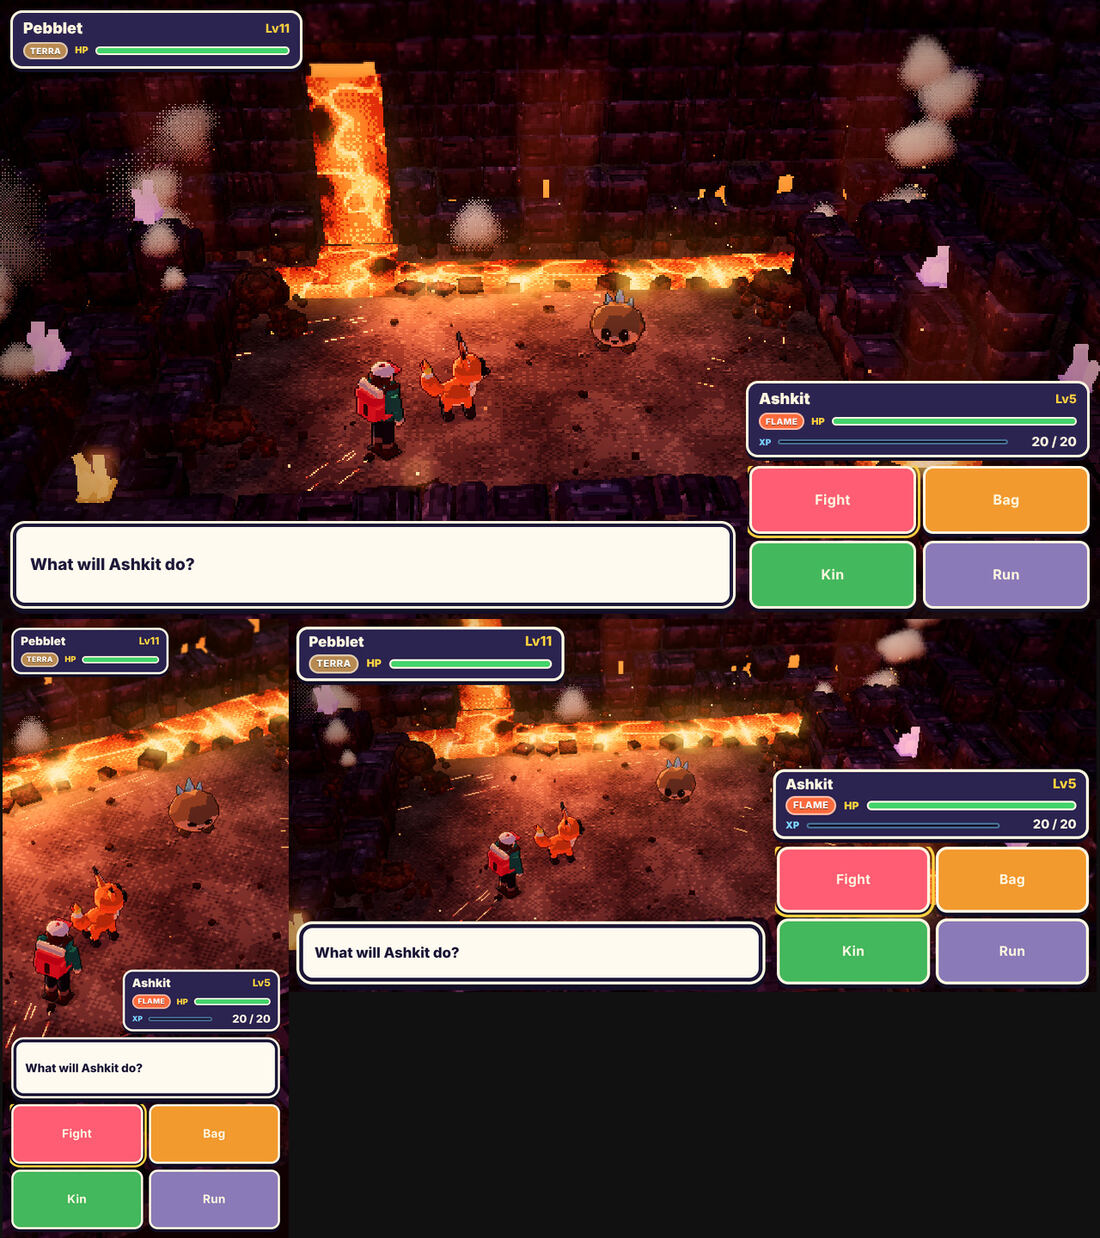
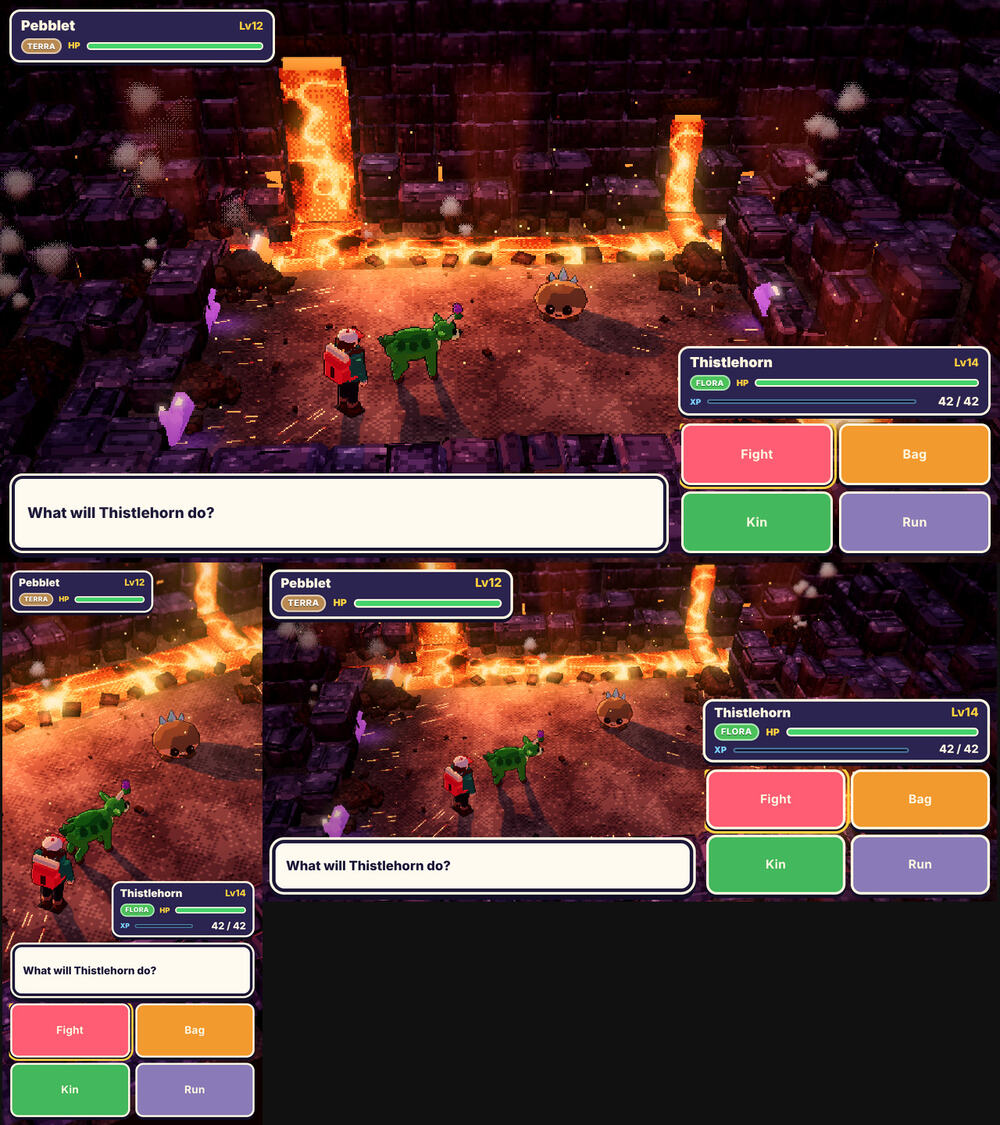
hd2d volcanic: lavender-lit boulder tops with baked lava rims, warmer floor bounce, weaker orange underlight; wispy translucent steam; violet crystal clusters growing from the wall foot with glow pools; second lavafall; lava veins along the floor edges; new sheet
Claude-Session: https://claude.ai/code/session_016JXtcKyTyuZAwfXm5uVZkS

diff --git a/game/src/render/hd2d/arenas/volcanic.ts b/game/src/render/hd2d/arenas/volcanic.ts
@@ -11,7 +11,7 @@ import { paintBoulder } from '../textures';
 import type { SpriteLight } from '../sprite';
 import type { Grade } from '../pipeline';
 import type { ArenaDef } from './index';
-import { RAMPS2, V, battleMarking, cachedCanvas, cachedTexture, decal, disposeGroup, floorGrid, glowTexture, grey, hdr, makeGrade, shadeVertices, paintAlpha, paintAsh, paintRockOn, particles } from './localKit';
+import { RAMPS2, V, battleMarking, cachedCanvas, cachedTexture, decal, disposeGroup, floorGrid, glowTexture, grey, hdr, makeGrade, orientedBox, shadeVertices, paintAlpha, paintAsh, paintRockOn, particles } from './localKit';
 
 export interface TerrainArenaOptions { seed?: number; quality?: 'high' | 'low'; trainer?: boolean }
 
@@ -176,6 +176,7 @@ export function buildVolcanicArena(opts: TerrainArenaOptions = {}): ArenaRig {
   const floorHalfX = 5.4, floorFront = 3.6, floorBack = -3.0;
   const river = { z: -4.25, half: 0.75 };      // lava river behind the floor
   const fall = { x0: -4.6, x1: -2.6, z: -6.25 }; // lavafall notch in the back wall
+  const fall2 = { x0: 4.5, x1: 5.7, z: -6.25 };  // a smaller second fall, right
   const pool = { x: 6.1, z: 2.3, rx: 1.35, rz: 1.0 };
   for (let j = 0; j < hm.nz; j++) for (let i = 0; i < hm.nx; i++) {
     const x = hm.cx(i), z = hm.cz(j);
@@ -197,6 +198,7 @@ export function buildVolcanicArena(opts: TerrainArenaOptions = {}): ArenaRig {
     if (Math.abs(z - river.z) < river.half + 0.15 && Math.abs(x) < 9.6) lv = 0;
     // The lavafall notch: open from the river up to the back wall.
     if (x > fall.x0 && x < fall.x1 && z > fall.z - 0.1 && z < river.z) lv = 0;
+    if (x > fall2.x0 && x < fall2.x1 && z > fall2.z - 0.1 && z < river.z) lv = 0;
     // The pool bites into the right terrace.
     if (((x - pool.x) / (pool.rx + 0.5)) ** 2 + ((z - pool.z) / (pool.rz + 0.5)) ** 2 < 1) lv = 0;
     const cl = Math.sin(Math.floor(i / 2) * 12.9898 + Math.floor(j / 2) * 78.233) * 43758.5453;
@@ -212,29 +214,31 @@ export function buildVolcanicArena(opts: TerrainArenaOptions = {}): ArenaRig {
   // upper walls sink into cool purple shadow and the eye goes to the molten floor of the cave.
   const fx = (fall.x0 + fall.x1) / 2;
   const lavaGlow = (x: number, y: number, z: number) => {
-    const dr = Math.abs(z - river.z), dp = Math.hypot(x - pool.x, z - pool.z), df = Math.hypot(x - fx, z - fall.z) * 0.8;
+    const dr = Math.abs(z - river.z), dp = Math.hypot(x - pool.x, z - pool.z), df = Math.min(Math.hypot(x - fx, z - fall.z), Math.hypot(x - 5.1, z - fall.z) * 1.3) * 0.8;
     return Math.exp(-Math.max(0, y) / 2.2) * Math.max(Math.exp(-dr * 0.35), Math.exp(-dp * 0.5), Math.exp(-df * 0.4));
   };
-  group.add(mk(shadeVertices(rock.build(), (x, y, z) => {
+  group.add(mk(shadeVertices(rock.build(), (x, y, z, ny) => {
     const k = lavaGlow(x, y, z), up = 0.74 + 0.26 * Math.exp(-Math.max(0, y - 0.5) / 3.5);
-    return [up * (0.85 + k * 0.5), up * (0.8 + k * 0.18), up * (0.92 - k * 0.1)];
+    // Tops: cool lavender lit from above, with a hot lava rim near the molten river/pool.
+    if (ny > 0.5) return [up * (1.08 + k * 1.3), up * (1.02 + k * 0.45), up * (1.18 - k * 0.2)];
+    return [up * (0.8 + k * 0.6), up * (0.74 + k * 0.2), up * (0.86 - k * 0.12)];
   }), track(surfaceMaterial(texBasalt, undefined, true))));
 
   // ---- ash floor: sinks into the river channel and the pool; scorched + lava-lit near them
   const inRiver = (x: number, z: number) => Math.abs(z - river.z) < river.half && Math.abs(x) < 9.6;
   const riverDist = (x: number, z: number) => Math.max(Math.abs(z - river.z) - river.half, Math.abs(x) - 9.6, 0);
   const poolD = (x: number, z: number) => Math.hypot((x - pool.x) / pool.rx, (z - pool.z) / pool.rz);
-  const fallD = (x: number, z: number) => (x > fall.x0 && x < fall.x1 && z < river.z && z > fall.z - 0.3 ? 0 : 9);
+  const fallD = (x: number, z: number) => (((x > fall.x0 && x < fall.x1) || (x > fall2.x0 && x < fall2.x1)) && z < river.z && z > fall.z - 0.3 ? 0 : 9);
   const glowAt = (x: number, z: number) => {
     const dr = Math.min(riverDist(x, z), fallD(x, z));
     const dp = Math.max(0, (poolD(x, z) - 1) * pool.rx);
-    return Math.max(Math.exp(-dr * 1.3), Math.exp(-dp * 1.5) * 0.9);
+    return Math.max(Math.exp(-dr * 0.75), Math.exp(-dp * 1.0) * 0.9);
   };
   {
     const g = floorGrid(hm, texAsh, 64, {
       res: 2,
       heightAt: (x, z) => (inRiver(x, z) || fallD(x, z) === 0 ? -0.5 : poolD(x, z) < 1.05 ? -0.45 : 0),
-      tintAt: (x, z) => { const k = glowAt(x, z); return [1 + k * 0.9, 1 + k * 0.25, 1 - k * 0.2]; },
+      tintAt: (x, z) => { const k = glowAt(x, z); return [1.02 + k * 1.1, 0.98 + k * 0.4, 0.98 - k * 0.2]; },
       aoK: 0.9,
     });
     group.add(mk(g, track(surfaceMaterial(texAsh)), false, true));
@@ -250,6 +254,9 @@ export function buildVolcanicArena(opts: TerrainArenaOptions = {}): ArenaRig {
   const mouthY = 5 * LEVEL;
   lava.strip([V(fx, mouthY, fall.z + 0.02), V(fx, mouthY * 0.5, fall.z + 0.12), V(fx, ly + 0.05, fall.z + 0.2)], fall.x1 - fall.x0 - 0.5, 3, true);
   lava.strip([V(fx, ly + 0.02, fall.z + 0.2), V(fx, ly + 0.01, river.z)], fall.x1 - fall.x0 - 0.3, 3);
+  const fx2 = (fall2.x0 + fall2.x1) / 2, mouth2 = 3 * LEVEL;
+  lava.strip([V(fx2, mouth2, fall2.z + 0.02), V(fx2, mouth2 * 0.5, fall2.z + 0.1), V(fx2, ly + 0.05, fall2.z + 0.18)], fall2.x1 - fall2.x0 - 0.4, 2, true);
+  lava.strip([V(fx2, ly + 0.02, fall2.z + 0.18), V(fx2, ly + 0.01, river.z)], fall2.x1 - fall2.x0 - 0.3, 2);
   lava.pool(V(pool.x, ly + 0.03, pool.z), pool.rx, pool.rz);
   const lavaMat = track(new THREE.ShaderMaterial({
     vertexShader: LAVA_VERT, fragmentShader: LAVA_FRAG,
@@ -280,7 +287,7 @@ export function buildVolcanicArena(opts: TerrainArenaOptions = {}): ArenaRig {
   }
   // River banks: a broken lip of chunks along both sides.
   for (let x = -9; x <= 9; x += 0.55 + rng.next() * 0.5) {
-    if (x > fall.x0 - 0.2 && x < fall.x1 + 0.2) continue;
+    if ((x > fall.x0 - 0.2 && x < fall.x1 + 0.2) || (x > fall2.x0 - 0.2 && x < fall2.x1 + 0.2)) continue;
     chunk(x, river.z + river.half + 0.1 + rng.next() * 0.2, 0.22 + rng.next() * 0.22, -0.12, rng.chance(0.35));
     chunk(x + 0.3, river.z - river.half - 0.1 - rng.next() * 0.2, 0.25 + rng.next() * 0.25, -0.12, rng.chance(0.25));
   }
@@ -304,21 +311,27 @@ export function buildVolcanicArena(opts: TerrainArenaOptions = {}): ArenaRig {
     glow.box([v.x - 0.12, v.y + 0.3, v.z - 0.12], [v.x + 0.12, v.y + 0.36, v.z + 0.12], hdr('#ff8a2a', 2.6), rng);
   }
   // Crystals: violet clusters on the walls (cool counterpoint) + a few ember ones.
-  // Crystal clusters seated on terrace tops: a fan of shards with a lit base (bloom accents).
-  const topY = (x: number, z: number) => { const [i, j] = hm.cell(x, z); const v = hm.get(i, j); return v >= 90 ? 0 : v * LEVEL; };
-  const crystals: [number, number, string][] = [[-6.9, -2.6, '#c47bff'], [-7.6, 1.2, '#c47bff'], [7.0, -0.6, '#c47bff'], [-6.4, 3.6, '#ff9a3a'], [6.6, -3.8, '#ff9a3a'], [8.0, 2.8, '#c47bff'], [-2.4, -6.6, '#c47bff']];
-  for (const [x, z, c] of crystals) {
-    const y = topY(x, z);
-    for (let i = 0; i < 6; i++) {
-      const a = (i / 6) * Math.PI * 2 + rng.next(), lean = 0.25 + rng.next() * 0.35;
-      const h = 0.35 + rng.next() * 0.45;
-      glow.rotBox([x + Math.cos(a) * 0.12, y + h * 0.4, z + Math.sin(a) * 0.12], [0.14, h, 0.14], a, hdr(c, 1.6 + rng.next() * 0.9), rng, lean * (i % 2 ? 1 : -1));
+  // Crystal clusters growing out of the foot of the walls: shards fan out of the rock toward the
+  // floor (`out` = direction away from the wall), with a glow pool on the ground in front.
+  const crystals: [number, number, number, string][] = [[-5.7, -1.0, 0, '#9a4ae0'], [-5.6, 2.6, 0.3, '#9a4ae0'], [5.8, -0.4, Math.PI, '#9a4ae0'], [5.0, -2.8, Math.PI - 0.6, '#ff7a1a'], [-4.9, -2.9, -0.5, '#ff7a1a']];
+  const crystalPools: [number, number, string][] = [];
+  for (const [x, z, out, c] of crystals) {
+    for (let i = 0; i < 7; i++) {
+      const a = out + (rng.next() - 0.5) * 1.6;
+      const h = 0.45 + rng.next() * 0.6;
+      const d = 0.05 + rng.next() * 0.3;
+      // Lean out of the wall: tilt about the axis perpendicular to the outward direction.
+      const dir = V(Math.cos(a) * 0.55, 1, Math.sin(a) * 0.55);
+      orientedBox(glow, V(x + Math.cos(a) * d, h * 0.38, z + Math.sin(a) * d), V(0.18, h, 0.18), dir, hdr(c, 0.85 + rng.next() * 0.5), rng, rng.next());
+      if (i % 3 === 0) orientedBox(glow, V(x + Math.cos(a) * d, h * 0.7, z + Math.sin(a) * d), V(0.07, h * 0.5, 0.07), dir, hdr('#fff0ff', 1.6), rng, 0.4);
     }
-    glow.box([x - 0.22, y, z - 0.22], [x + 0.22, y + 0.06, z + 0.22], hdr(c, 0.9), rng);
+    crystalPools.push([x + Math.cos(out) * 0.5, z + Math.sin(out) * 0.5, c]);
   }
   // The fall's mouth: a glowing slot in the wall with a dark lintel of slag above it.
   glow.box([fall.x0 + 0.35, mouthY - 0.05, fall.z - 0.02], [fall.x1 - 0.35, mouthY + 0.22, fall.z + 0.03], hdr('#ff7a22', 1.5), rng);
   slag.box([fall.x0 - 0.1, mouthY + 0.35, fall.z - 0.1], [fall.x1 + 0.1, mouthY + 0.7, fall.z + 0.3], grey(0.8), rng, { aoBottom: 0.5 });
+  glow.box([fall2.x0 + 0.3, mouth2 - 0.05, fall2.z - 0.02], [fall2.x1 - 0.3, mouth2 + 0.16, fall2.z + 0.03], hdr('#ff7a22', 1.4), rng);
+  slag.box([fall2.x0 - 0.1, mouth2 + 0.2, fall2.z - 0.1], [fall2.x1 + 0.1, mouth2 + 0.5, fall2.z + 0.26], grey(0.8), rng, { aoBottom: 0.5 });
   // Glowing seams in the back wall over the river (lit from the river) and around the fall.
   for (let i = 0; i < 16; i++) {
     const x = -9 + rng.next() * 18;
@@ -338,7 +351,23 @@ export function buildVolcanicArena(opts: TerrainArenaOptions = {}): ArenaRig {
       mats.push(m.material as THREE.MeshBasicMaterial);
       group.add(m);
     }
+    // Veins running from the river along both floor edges toward the camera, and under the front ledge.
+    const vein = tex.clone();
+    vein.repeat.set(1, 3);
+    track(vein);
+    for (const [x, z, w, d, r] of [[-4.9, 0.4, 1.3, 7.0, 0.08], [4.9, 0.6, 1.3, 7.0, -0.1], [-0.6, 3.7, 1.2, 6.0, Math.PI / 2 + 0.05]] as const) {
+      const m = decal(vein, x, 0.013, z, w, d, { additive: true, rot: r, color: new THREE.Color(1.5, 1.1, 0.9) });
+      track(m.material as THREE.Material);
+      mats.push(m.material as THREE.MeshBasicMaterial);
+      group.add(m);
+    }
     updates.push((t) => mats.forEach((m, i) => { m.opacity = 0.75 + 0.25 * Math.sin(t * 1.6 + i * 1.7); }));
+    const poolTex = track(glowTexture('rgba(255,255,255,0.5)'));
+    for (const [x, z, c] of crystalPools) {
+      const m = decal(poolTex, x, 0.02, z, 1.8, 1.4, { additive: true, color: new THREE.Color(c).multiplyScalar(0.55) });
+      track(m.material as THREE.Material);
+      group.add(m);
+    }
   }
   // Lava light pools: additive bounce on the floor near the river and pool.
   {
@@ -366,13 +395,13 @@ export function buildVolcanicArena(opts: TerrainArenaOptions = {}): ArenaRig {
   key.shadow.camera.near = 1;
   key.shadow.camera.far = 16;
   group.add(key, key.target);
-  const hemi = new THREE.HemisphereLight(new THREE.Color('#9a88b0'), new THREE.Color('#b4542e'), 2.0);
+  const hemi = new THREE.HemisphereLight(new THREE.Color('#a898c4'), new THREE.Color('#6a2a20'), 2.0);
   group.add(hemi);
   // Underlight: from low in front, so camera-facing faces glow red-orange while tops stay cool.
-  const under = new THREE.DirectionalLight(new THREE.Color('#ff6a3a'), 1.0);
+  const under = new THREE.DirectionalLight(new THREE.Color('#ff6a3a'), 0.55);
   under.position.set(1, -1.2, 8);
   group.add(under, under.target);
-  const top = new THREE.DirectionalLight(new THREE.Color('#a8a0d0'), 1.0);
+  const top = new THREE.DirectionalLight(new THREE.Color('#b8b0e0'), 1.35);
   top.position.set(-2, 10, 4);
   group.add(top, top.target);
   if (q === 'high') {
@@ -393,9 +422,9 @@ export function buildVolcanicArena(opts: TerrainArenaOptions = {}): ArenaRig {
   updates.push(rays.update);
 
   const lowK = q === 'high' ? 1 : 0.55;
-  const steamEmit = vents.map((v) => ({ min: V(v.x - 0.15, v.y + 0.3, v.z - 0.15), max: V(v.x + 0.15, v.y + 0.4, v.z + 0.15), vmin: V(-0.05, 0.55, -0.05), vmax: V(0.1, 0.9, 0.05), count: Math.round(14 * lowK), life: [3.5, 5.5] as [number, number], size: [0.45, 0.7] as [number, number] }));
-  steamEmit.push({ min: V(-9, ly + 0.2, river.z - 0.5), max: V(9, ly + 0.4, river.z + 0.5), vmin: V(-0.05, 0.3, -0.1), vmax: V(0.15, 0.5, 0.05), count: Math.round(12 * lowK), life: [3, 5], size: [0.6, 0.9] });
-  const steam = particles({ kind: 'steam', emitters: steamEmit, colorA: hdr('#e8d4d0', 0.95), colorB: hdr('#c06a50', 0.9), accel: V(0.06, 0.02, 0.04), wiggle: 0.5, grow: [0.7, 2.6], opacity: 0.7 }, rng);
+  const steamEmit = vents.map((v) => ({ min: V(v.x - 0.15, v.y + 0.3, v.z - 0.15), max: V(v.x + 0.15, v.y + 0.4, v.z + 0.15), vmin: V(-0.04, 0.8, -0.04), vmax: V(0.08, 1.2, 0.04), count: Math.round(11 * lowK), life: [2.5, 4] as [number, number], size: [0.26, 0.4] as [number, number] }));
+  steamEmit.push({ min: V(-9, ly + 0.2, river.z - 0.5), max: V(9, ly + 0.4, river.z + 0.5), vmin: V(-0.05, 0.3, -0.1), vmax: V(0.15, 0.5, 0.05), count: Math.round(10 * lowK), life: [2.5, 4], size: [0.28, 0.45] });
+  const steam = particles({ kind: 'steam', emitters: steamEmit, colorA: hdr('#d8ccd4', 0.9), colorB: hdr('#a0605a', 0.85), accel: V(0.08, 0.05, 0.03), wiggle: 0.45, grow: [0.6, 2.4], opacity: 0.55 }, rng);
   const embers = particles({
     kind: 'ember',
     emitters: [

diff --git a/game/src/render/hd2d/arenas/localKit.ts b/game/src/render/hd2d/arenas/localKit.ts
@@ -1008,11 +1008,11 @@ export function levelAt(hm: Heightmap, x: number, z: number): number {
 }
 
 /** Multiply a geometry's vertex colours by `f(x, y, z)` → [r, g, b] (baked light falloff). */
-export function shadeVertices(g: THREE.BufferGeometry, f: (x: number, y: number, z: number) => [number, number, number]): THREE.BufferGeometry {
-  const pos = g.attributes.position!, col = g.attributes.color;
+export function shadeVertices(g: THREE.BufferGeometry, f: (x: number, y: number, z: number, ny: number) => [number, number, number]): THREE.BufferGeometry {
+  const pos = g.attributes.position!, col = g.attributes.color, nor = g.attributes.normal;
   if (!col) return g;
   for (let k = 0; k < pos.count; k++) {
-    const [r, gg, b] = f(pos.getX(k), pos.getY(k), pos.getZ(k));
+    const [r, gg, b] = f(pos.getX(k), pos.getY(k), pos.getZ(k), nor ? nor.getY(k) : 0);
     col.setXYZ(k, col.getX(k) * r, col.getY(k) * gg, col.getZ(k) * b);
   }
   col.needsUpdate = true;
